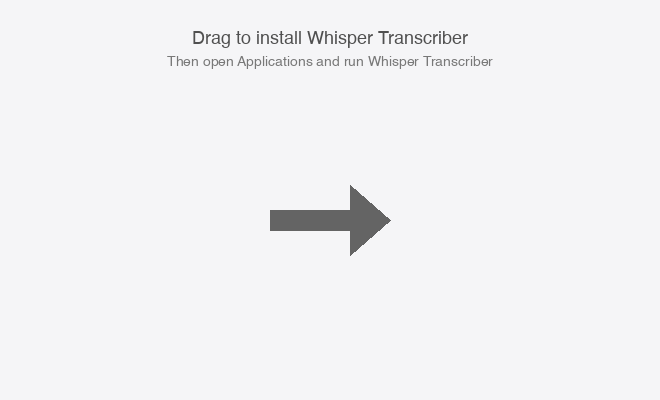
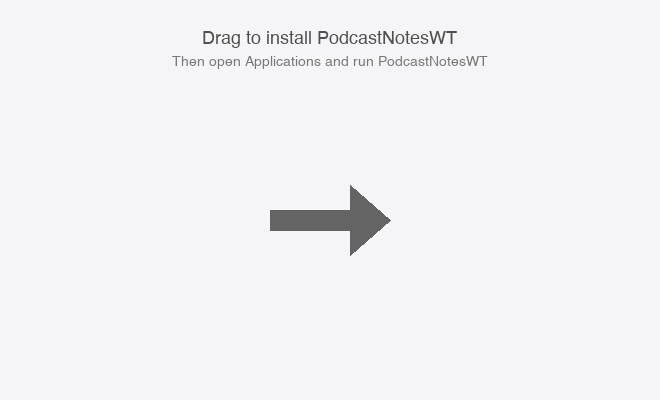
Put the right app name on the installer window
The DMG background still said "Drag to install Whisper Transcriber", which is
the first thing anybody opening the installer saw, and it had said that for
every build since the rename.

It was generated by scripts/create_assets.py, a second asset script that
nothing else called and that the rename missed. It also still produced the old
blue microphone icon, so leaving it there was leaving a trap. Moved into
create_icon.py, which is the script that is actually used, and deleted.

Two more traces of the old name went with it, in the logger's docstring and
its startup line. The comment in config.py warning against "tidying" the
hardcoded QSettings path was itself out of date: it justified the hardcoding
by saying main.py uses "Whisper Transcriber" with a space, which stopped being
true at the rename. The hardcoding is still load-bearing, for a different
reason, and now says so.

Three guards: the installer name, the background being built by the surviving
script, and no user-facing string anywhere in src mentioning the old name.
Comments about the rename are allowed to.

Changed region(s): [[0.2424, 0.06, 0.7576, 0.18]]

diff --git a/scripts/create_icon.py b/scripts/create_icon.py
@@ -1,10 +1,15 @@
 #!/usr/bin/env python3
 """
-Generate the PodcastNotesWT app icon.
+Generate the PodcastNotesWT app icon and the installer background.
 
 A placeholder, and deliberately a plain one: a page with a waveform through
 it, which is what the app does. Replace resources/icon.png with anything
 better and re-run this to rebuild the .icns.
+
+The installer background lives here too, and used to live in a second script
+that was left behind when the app was renamed. It kept generating "Drag to
+install Whisper Transcriber", which is what every person who downloaded the
+DMG saw first. One script, so the name can only be wrong in one place.
 
     venv/bin/python scripts/create_icon.py
 """
@@ -14,7 +19,7 @@ import shutil
 import subprocess
 import tempfile
 
-from PIL import Image, ImageDraw
+from PIL import Image, ImageDraw, ImageFont
 
 RESOURCES = os.path.join(os.path.dirname(os.path.dirname(os.path.abspath(__file__))),
                          "resources")
@@ -23,6 +28,13 @@ SIZE = 1024
 INK = (24, 31, 46)
 PAPER = (255, 255, 255)
 ACCENT = (61, 122, 255)
+
+# The name on the installer window. Read from nowhere else on purpose: the
+# app is called this, and a second copy of the string is how the last one got
+# out of date.
+APP_NAME = "PodcastNotesWT"
+
+DMG_WIDTH, DMG_HEIGHT = 660, 400
 
 
 def draw_icon() -> Image.Image:
@@ -64,8 +76,42 @@ def draw_icon() -> Image.Image:
     return img
 
 
+def draw_dmg_background() -> Image.Image:
+    """The window somebody sees when they open the DMG: drag this, into there."""
+    img = Image.new("RGBA", (DMG_WIDTH, DMG_HEIGHT), (245, 245, 247, 255))
+    draw = ImageDraw.Draw(img)
+
+    try:
+        big = ImageFont.truetype("/System/Library/Fonts/Helvetica.ttc", 18)
+        small = ImageFont.truetype("/System/Library/Fonts/Helvetica.ttc", 14)
+    except OSError:
+        big = small = ImageFont.load_default()
+
+    for text, font, y, colour in (
+        (f"Drag to install {APP_NAME}", big, 30, (80, 80, 80)),
+        (f"Then open Applications and run {APP_NAME}", small, 55, (120, 120, 120)),
+    ):
+        box = draw.textbbox((0, 0), text, font=font)
+        draw.text(((DMG_WIDTH - (box[2] - box[0])) // 2, y), text, fill=colour, font=font)
+
+    middle = DMG_HEIGHT // 2 + 20
+    left = DMG_WIDTH // 2 - 60
+    right = DMG_WIDTH // 2 + 60
+    draw.rectangle([left, middle - 10, right - 30, middle + 10], fill=(100, 100, 100))
+    draw.polygon(
+        [(right - 40, middle - 35), (right, middle), (right - 40, middle + 35)],
+        fill=(100, 100, 100),
+    )
+    return img
+
+
 def main():
     os.makedirs(RESOURCES, exist_ok=True)
+
+    dmg_path = os.path.join(RESOURCES, "dmg_background.png")
+    draw_dmg_background().save(dmg_path)
+    print(f"wrote {dmg_path}")
+
     icon = draw_icon()
     png_path = os.path.join(RESOURCES, "icon.png")
     icon.save(png_path)

diff --git a/tests/test_dependencies.py b/tests/test_dependencies.py
@@ -166,3 +166,46 @@ def test_no_unlisted_third_party_imports():
         + "\n".join(unlisted)
         + "\n\nAdd the missing package(s) to requirements.txt."
     )
+
+
+# --- the app has one name -------------------------------------------------------
+
+
+def test_the_installer_window_uses_the_current_app_name():
+    """The DMG background said "Drag to install Whisper Transcriber" for every
+    build after the rename, which is the first thing anybody downloading it
+    saw. It was generated by a second script that the rename missed."""
+    from scripts.create_icon import APP_NAME
+
+    assert APP_NAME == "PodcastNotesWT"
+
+
+def test_the_installer_background_is_built_by_the_script_that_is_still_used():
+    """It used to live in create_assets.py, which nothing else called and
+    which also still produced the old blue microphone icon. Two scripts is how
+    one of them gets left behind."""
+    import pathlib
+
+    from scripts import create_icon
+
+    assert hasattr(create_icon, "draw_dmg_background")
+    assert not (pathlib.Path(__file__).parent.parent / "scripts" / "create_assets.py").exists()
+
+
+def test_no_user_facing_string_still_says_the_old_name():
+    """Comments explaining the rename are allowed to mention it. Strings a
+    person reads are not."""
+    import pathlib
+    import re
+
+    root = pathlib.Path(__file__).parent.parent
+    offenders = []
+    for path in list((root / "src").rglob("*.py")) + [root / "main.py"]:
+        for number, line in enumerate(path.read_text().splitlines(), 1):
+            stripped = line.strip()
+            if stripped.startswith("#") or "Whisper Transcriber" not in line:
+                continue
+            if re.search(r'["\']([^"\']*Whisper Transcriber[^"\']*)["\']', line):
+                offenders.append(f"{path.relative_to(root)}:{number}")
+
+    assert offenders == [], f"old name in a user-facing string: {offenders}"

diff --git a/src/core/config.py b/src/core/config.py
@@ -27,10 +27,14 @@ SETTINGS_SPEAKER_ID_ENABLED = "speaker_id_enabled"
 # Deliberately hardcoded, and deliberately NOT the application identity set in
 # main.py. QSettings("WhisperTranscriber", "WhisperTranscriber") resolves to
 # ~/Library/Preferences/com.whispertranscriber.WhisperTranscriber.plist, which
-# is where every existing install has its setting. main.py sets the application
-# name to "Whisper Transcriber" WITH A SPACE, so a default-constructed
-# QSettings() would resolve to a different file and silently reset everyone's
-# preference to the default. Do not "tidy" this to QSettings().
+# is where every existing install has its settings.
+#
+# main.py now sets the application name to "PodcastNotesWT", so a
+# default-constructed QSettings() would resolve to
+# com.whispertranscriber.PodcastNotesWT.plist: a different file, and everyone's
+# preferences silently back to their defaults. Do not "tidy" this to
+# QSettings(). The reason has survived one rename already and the earlier
+# version of this comment described the pre-rename name.
 _SETTINGS_ORG = "WhisperTranscriber"
 _SETTINGS_APP = "WhisperTranscriber"
 

diff --git a/src/utils/logger.py b/src/utils/logger.py
@@ -1,5 +1,5 @@
 """
-Logging utility for Whisper Transcriber.
+Logging utility for PodcastNotesWT.
 Provides file-based logging for debugging and error reporting.
 """
 
@@ -60,7 +60,7 @@ def setup_logging(enable_file_logging: bool = True) -> logging.Logger:
 
             # Log startup
             logger.debug("=" * 60)
-            logger.debug(f"Whisper Transcriber started at {datetime.now().isoformat()}")
+            logger.debug(f"PodcastNotesWT started at {datetime.now().isoformat()}")
             logger.debug(f"Python {sys.version}")
             logger.debug(f"Log file: {LOG_FILE}")
             logger.debug("=" * 60)
